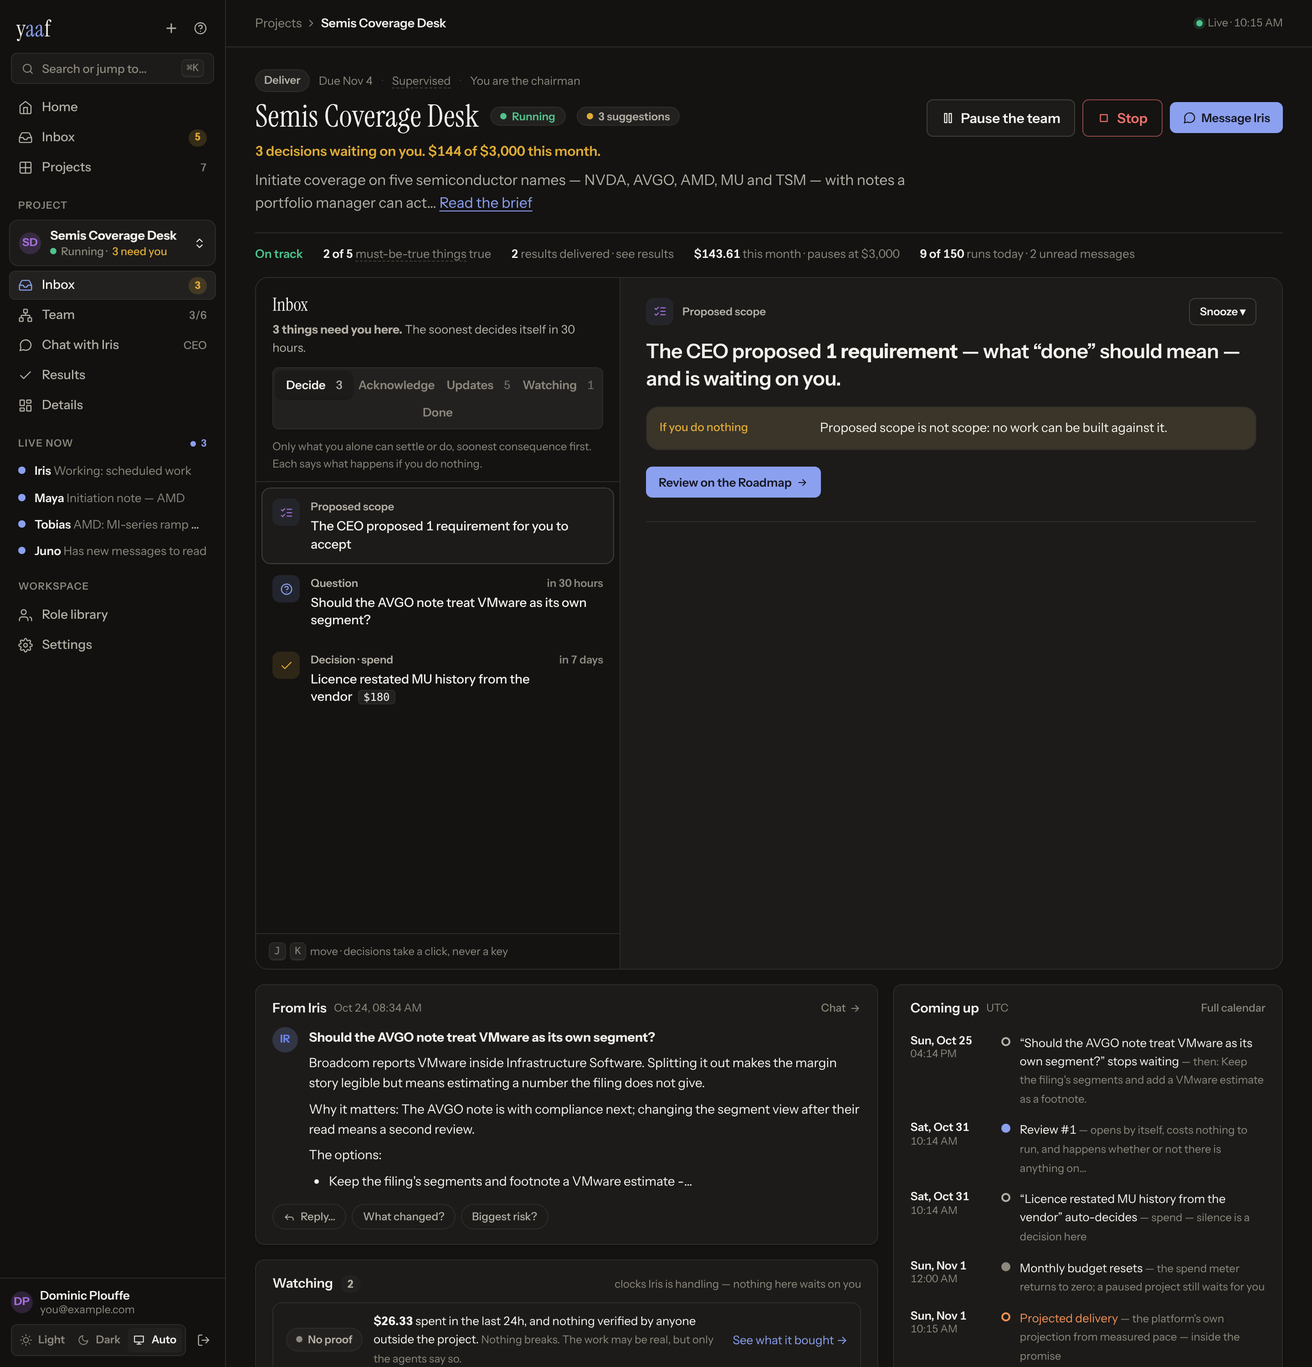
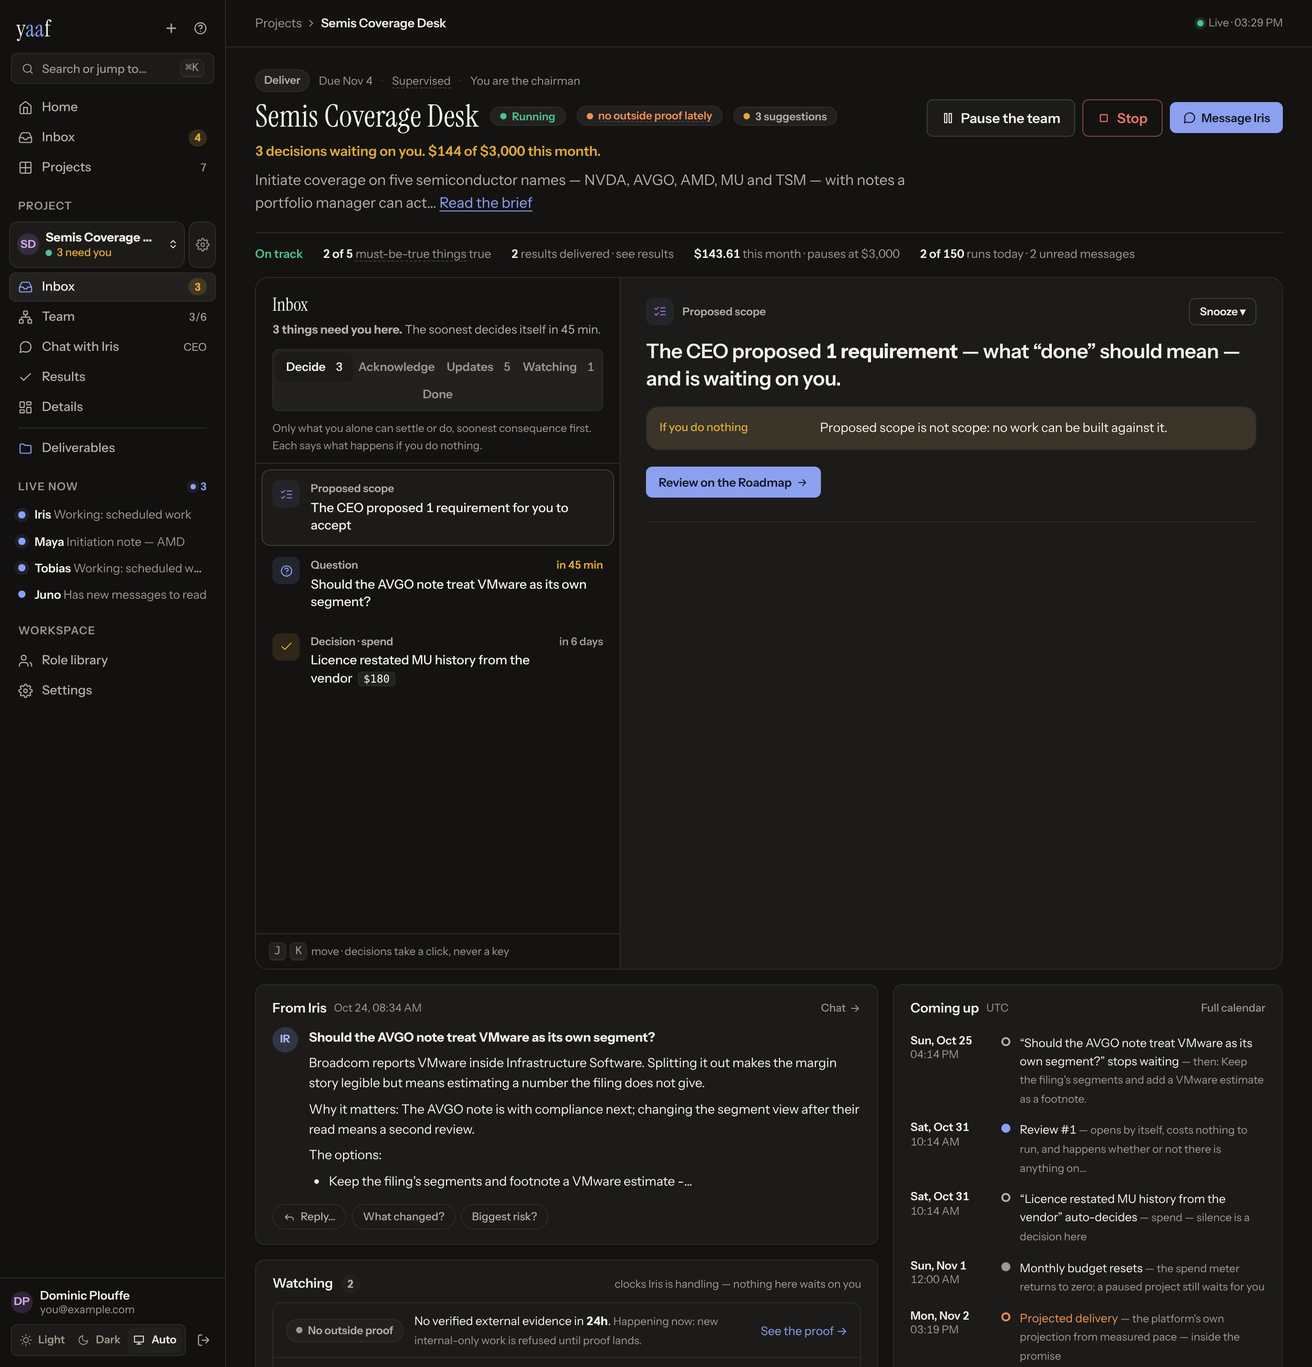
Sync from yaaf at #74: pins, the setup checklist and one CEO record
Brings in yaaf through #72 and #74: ten screenshots (the new
project-setup shot, and the rest redrawn with the pinned sidebar), the
dashboard, MCP and feature docs for pins and the setup checklist, and
2,309 tests.

Claude-Session: https://claude.ai/code/session_013fsCrr24CrMjFRXMTvYDcT

diff --git a/src/content/docs/dashboard.md b/src/content/docs/dashboard.md
@@ -8,7 +8,7 @@ The chairman's cockpit is a React SPA served by the API at **`/app`**. Sign in
 with your email and password; the first admin's comes from the one-time link
 the install prints, and everybody else's from an invite (see
 [AUTH.md](/docs/auth/)). The browser holds a session cookie it cannot read from
-script, and nothing is kept in `localStorage`.
+script, and no credential is kept in `localStorage`.
 
 Two places are about people rather than projects. **Settings → Account** is
 yours: your password, the personal tokens the CLI and your scripts hold, and the
@@ -34,7 +34,28 @@ always shows the same four things in the same order:
 | **Home** | The landing page: one sentence on whether anything needs you, the decisions themselves, every project side by side, and what happened while you were away. |
 | **Inbox** | Everything that needs you, across every project — and everything worth knowing that doesn't. The badge counts only the first. |
 | **Projects** | Your portfolio — one comparable row per project. |
-| **The project you are in** | A switcher (status, and how many things on it need you), then that project's five pages: Inbox, Team, Chat, Results, Details. |
+| **The project you are in** | A switcher (status, and how many things on it need you) with a **gear** beside it for the project's Settings, then that project's five pages: Inbox, Team, Chat, Results, Details — and under them your pins. |
+
+**Pins.** The pages under the five — Deliverables, Runs, a Settings section,
+even one file — are a level down, which is the right depth for a page you open
+once a month and the wrong one for a page you open every morning. So every one
+of them has a **Pin to sidebar** button, and a pinned page sits under the
+project's five pages, one click from anywhere. **Deliverables** comes pinned;
+unpin it with the **×** that appears on hover. You keep up to five, in the
+order you pinned them, and they are yours: they follow you to any browser you
+sign in on, and nobody else's sidebar changes. A pinned page is pinned in every
+project; a pinned file only in its own. After you open the same page three
+times in a week, the app offers once to pin it.
+
+**Details remembers where you were.** Details opens on the tab you used last
+(its name is beside it in the sidebar), so a reader who lives in Runs does not
+pass through the Roadmap to get back to them.
+
+**Setting a project up.** While a new project still needs things — a model key,
+data sources, the credentials its agents asked for, a Slack room, the people
+who can open it — the sidebar carries one more row, **Finish setup 2 of 6**,
+that opens the next one. It goes away when the last step is done or skipped.
+See [the checklist](#finishing-setup) on the project's Inbox.
 
 Under the project's pages a **Live now** list names who is working, who is
 waiting and who wakes next; click a name to open that agent. The **Role
@@ -47,17 +68,23 @@ phone the sidebar folds into a drawer behind the menu button.
 **Search and shortcuts.** **⌘K** (or **Ctrl+K**, or **/** on any page without
 a search box of its own) opens a palette
 that finds any page, project or person and runs the few app-wide actions
-(theme, shortcuts, sign out). **?** lists every shortcut. **g** then a letter
+(theme, shortcuts, sign out). Inside a project it goes one level further than
+the sidebar: the places you were in last, your pins, every Settings section and
+Activity view by name, the setup chores by what you want done (**Add a secret
+or variable**, **Connect a data source**, **Set the budget**, **Invite someone
+to this project**), and any deliverable by its name. **?** lists every shortcut. **g** then a letter
 goes to a page of the project you are in — **g o** its Inbox, **g t** Team, **g c** Chat,
 **g r** Results, **g d** Details, and straight to a Details tab with **g m**
 Roadmap, **g k** Tasks, **g f** Deliverables, **g s** Spend, **g v** Reviews,
-**g a** Activity — and **g i** to the Inbox. No single
+**g a** Activity, **g ,** the project's Settings, and **g 1** to **g 5** your
+pins in sidebar order — and **g i** to the Inbox. No single
 keypress ever decides anything: approving, denying and answering are always a
 click on a labelled button.
 
 Old links keep working. `#/desk` opens the Inbox, a project's `boardroom`
 opens Chat, `progress` opens Roadmap, `progress/board` opens Tasks, and
-`records/*` opens the matching Activity view — so a link in an old email or a
+`records/*` opens the matching Activity view, and `details/settings` opens the
+project's Settings — so a link in an old email or a
 bookmark still lands somewhere true.
 
 ---
@@ -406,7 +433,11 @@ A project has five pages, each answering one question:
 | **Team** | Who is doing my job, who do they report to, and what is each of them on? |
 | **Chat** | Talk to the CEO who runs them. |
 | **Results** | What has the team delivered, and who checked it? |
-| **Details** | How it works inside — Roadmap, Tasks, Deliverables, Spend, Reviews, Activity, Settings, as tabs. Nothing there needs you. |
+| **Details** | How it works inside — Roadmap, Tasks, Deliverables, Spend, Reviews, Activity, as tabs. Nothing there needs you. |
+
+The project's **Settings** are not a page of their own in the list: they open
+from the gear beside the project's name, because they are what the project is
+configured to be rather than how its work is going.
 
 The sidebar carries the count of decisions waiting on you beside Inbox (the
 same count as the Inbox above it, for this project), how many people are busy
@@ -416,9 +447,9 @@ obvious, a project paused or stopped and why, and a review that is open and
 waiting on you.
 
 Every old address still works: `/overview` opens the project's Inbox, `/team`
-the Team page, and `/roadmap`, `/tasks`, `/deliverables`, `/spend`, `/reviews`,
-`/activity/…` and `/settings` the matching Details tab, with their filters
-intact.
+the Team page, `/roadmap`, `/tasks`, `/deliverables`, `/spend`, `/reviews` and
+`/activity/…` the matching Details tab, and `/details/settings` the project's
+Settings, with their filters intact.
 
 **Explore projects have no Roadmap tab.** They have no requirements by
 design — their shape is bets and evidence — and a tab that only ever explains
@@ -438,6 +469,22 @@ must-be-true things are true (or bets in play, on an Explore project), how many
 results have been delivered, what this month has cost against the cap, and
 runs today. When the projection lands past the promised date, a banner says
 so in days, with your two levers: cut scope, or move the date.
+
+### Finishing setup
+
+<img src="/screenshots/project-setup.webp" alt="A project's Inbox with the Finish setting up card open: the model key ticked, then Brief, Data sources, Secrets & variables, Integrations and People each with Open and Skip, and in the sidebar the gear beside the project's name, a Finish setup row counting 1 of 6, and Deliverables pinned under the five pages">
+
+A new project's Inbox opens with **Finish setting up**: one line per thing a
+project needs in its first days — **Model key**, **Brief**, **Data sources**,
+**Secrets & variables**, **Integrations**, **People** — each saying what the
+project already has or what is missing, and each opening the exact Settings
+section. A step ticks itself off when the project has the thing: nobody ticks
+it, so it can never say a key is connected after the key was removed. Every
+step but the model key can be **skipped** (and brought back with **Undo**);
+the key cannot, because no agent can run without it. **Done for now** puts the
+whole list away for everyone on the project. Skipping and putting away are for
+the chairman and co-chairs; an observer sees the list but cannot change it.
+Projects that were already running when the checklist shipped never show it.
 
 **The Inbox** is the same Inbox as the one in the sidebar, for this project
 only — the same rows, the same tabs (Decide, Acknowledge, Updates, Watching,
@@ -577,7 +624,9 @@ the full file explorer.
 ## Details — how it works inside
 
 One page with a tab per subject, so the sidebar can say what the project is.
-Nothing on it needs you — anything that does is on Team and in the Inbox.
+Nothing on it needs you — anything that does is on Team and in the Inbox. Each
+tab, and each Activity view, has **Pin to sidebar** in the top corner for the
+one you open every day, and Details reopens on the tab you used last.
 
 ## Roadmap — scope, sequence, and the promise
 
@@ -750,6 +799,12 @@ from the Roadmap or Settings, and the dial that granted it is one amendment from
 being turned back. Under the Supervised dial the list stays empty by design.
 
 ## Settings
+
+Opened from the **gear** beside the project's name in the sidebar (or **g ,**).
+Each section has its own address, so a link to Secrets & variables lands there,
+and each can be pinned. While the project is being set up, every setup step
+sits in a strip across the top, done ones ticked, so going from one to the next
+is one click; the step you are on can be skipped from the same strip.
 
 Grouped by necessity, not by subsystem. The required path is Brief → Money →
 Data; everything after is occasional.

diff --git a/src/content/docs/agent-api.md b/src/content/docs/agent-api.md
@@ -25,7 +25,7 @@ the refusal text is part of the design, not an error string.
 | Endpoint | Returns |
 |---|---|
 | `GET /whoami` | Who this agent is: role, team, whether it leads. |
-| `GET /context` | The context pack: the constitution in prose, the roster, unread messages, memory usage, chairman state, and the current task. |
+| `GET /context` | The context pack: the constitution in prose, the roster, unread messages, memory usage, chairman state, and the current task. A work run consumes the notices, unread messages and suggestions it is shown; the chat session is shown them and consumes nothing, and is shown every section but those `contextpack.CHAT_OMITS` names. The CEO's pack carries `you_said_lately`: its own recent lines from any lane. |
 | `GET /board` | The task board this agent can see. |
 | `GET /channels` | The channels it may read and post in. |
 | `GET /activity` | Who spent the runs, and on what. |
@@ -274,7 +274,7 @@ is responsible, because every task carries a start time the CEO chose).
 | `POST /capacity` | `rule`, `to`, `buys`, `costs`, `without` | **CEO only.** A case for MORE of a capacity dial — runs a day or an hour, concurrency, queue depth, the month's money. All three of buys/costs/without are required, because the difference between this and a remark in the boardroom is that this carries the numbers to decide on. Filing it does **not** move the dial and does **not** block: keep working at the cap you have and treat a yes as upside. His yes raises the dial at once (to his number if he changed it), through the ordinary amendment path, and you are told the number in force. Restricted to the rules that govern *how much work the project may do* — the mirror of `directive_file`, which is restricted to rules that limit what you ask of him. Authority, the quality bar, verdict policy and the audit rates are refused: arguing for a lower bar on yourself is not a capacity request. `max_concurrent_runs` is granted differently from the rest and says so — it protects a provider rate limit every project on the box shares. |
 | `POST /brief` | `goal`, `standing_orders`, `retired`?, `what_changed` | **CEO only.** Write the chairman's current direction back to him for his Confirm: the whole goal as it stands now, every standing order with its number, and what no longer applies, quoting what he said. Nothing changes until he confirms. Confirming replaces the goal and the standing orders every agent reads first on every run, restarts the chat session onto them, and tells you to rewrite the files, scripts and memories that still say the old thing. A newer draft replaces an unconfirmed one; the brief already in force is 409. `POST /approvals` refuses `kind=brief`. |
 | `POST /heads_up` | `title`, `body`, `standing_order` | **CEO only.** Tell the chairman something he *asked* to be told, for him to mark Noted — no Approve, no Deny, no expiry. `standing_order` quotes the order in the brief that asks for it (enough of it to name one order); without one it is refused, because then it is information and belongs in the deliverable or the daily brief. If he must decide, file an approval; if he must do something, an assist. |
-| `POST /notes/{id}/answer` | `reply`, `standing` | **CEO only.** Answer a note the chairman wrote on a decision. Every unanswered note is in the context pack's `chairman_notes` on every run until answered. `reply` is the one line he reads under his note. `standing=true` says it applies beyond that one item, and is refused unless a brief written after the note exists — fold it in with `POST /brief` first. |
+| `POST /notes/{id}/answer` | `reply`, `standing` | **CEO only.** Answer a note the chairman wrote on a decision. Every unanswered note is in the context pack's `chairman_notes` on every run until answered, with the `boardroom_message_id` of the line it also became in the boardroom. He gets one answer: if the CEO already answered him there (`you_answered_in_the_boardroom`), those words are the reply under his note and `reply` adds nothing; otherwise `reply` is said in the boardroom as the CEO's line. From the chat session nothing is posted — its turn's reply is the answer. `reply` is the one line he reads under his note. `standing=true` says it applies beyond that one item, and is refused unless a brief written after the note exists — fold it in with `POST /brief` first. |
 | `POST /ledger/spend` | `usd`, `note`, `approval_id?` | Spends at or above the threshold **require a granted approval id**, or the booking is refused. Money already spent is always *recorded* — an overshoot books with an audit row and a note to the chairman rather than vanishing. |
 | `POST /purchases` | `usd`, `what`, `idempotency_key` | Clears the real-world spend envelope **before** money moves, and reserves the headroom so two overlapping purchases cannot spend it twice. |
 | `POST /purchases/{id}/finish` | `ok`, `receipt?` | Books the ledger row. Finishing twice never double-books. |

diff --git a/src/content/docs/features.md b/src/content/docs/features.md
@@ -518,6 +518,23 @@ evidence at all about your *project*.
   the rest (`{slug}-leadership`, one room per team) when you want them, so a new
   project does not cost your workspace six channels nobody has spoken in. The
   bot token still never enters a sandbox, shared or not.
+- **One record, every lane.** Anything you write to the project on a decision
+  — a note on an approval, an assist, a credential you fill in, a heads-up or a
+  flag; your reason for cutting, adding, rewording or re-staging scope; a note
+  on an audit, a review, a commitment, an overrun or a measurement window; why
+  you paused, stood down a team or extended a bet — is also your line in the
+  boardroom (`Re: “…” — what you wrote`), the same way an answer to one of the
+  CEO's questions is. The CEO you chat with answers it there, whichever of its
+  runs is awake and however recently its chat session restarted, because the
+  boardroom is the record every one of them reads. You get **one answer**: the
+  CEO's reply in the chat is also what shows under your note in the Inbox. A
+  note on a decision never counts as an answer to the CEO's own open
+  questions, and a decision with no note says nothing. Every route that takes
+  your words is named in one list (`chairman_notes.DOORS`), and the suite
+  fails on a new one that is not. The chat session is
+  shown everything a work run of the CEO is shown — bar a short list the
+  platform names with a reason — consumes none of it, and every lane sees what
+  the CEO itself last said, so one run does not undo the last one's order.
 - **Directives.** A rule you state in chat becomes a rule the platform holds:
   the CEO files it as a directive citing your actual message, and the platform
   enforces it from the next call. Scope is limited to your reporting
@@ -544,12 +561,21 @@ evidence at all about your *project*.
   browser receives the folder headers and only the rows it is showing. A
   stale index is served at once and refreshed behind the request, with its
   age in the footer, so a slow disk never stalls the tab.
+- **One click from anywhere.** Deliverables comes pinned under the project in
+  the sidebar, and **Pin to sidebar** on the file reader puts a single file
+  there too; ⌘K finds any deliverable by its name.
 - **The listing says what it dropped.** Past the per-project cap (50,000
   working files) the newest are kept, not the alphabetically first, and the
   screen says how many are not shown.
 
 ## 16. Setup that can't silently fail
 
+- **A setup checklist that ticks itself.** A new project's Inbox lists what it
+  still needs — model key, brief, data sources, the credentials its agents
+  asked for, integrations, people — each one click from the exact Settings
+  section, each ticked off by the project's own state rather than by anyone
+  pressing a box. The model key cannot be skipped; the rest can. While any step
+  is left, one sidebar row opens the next one; when none is, both go away.
 - **Health checklist** on each project's Inbox names anything misconfigured
   — dead billing, a credential that isn't a URL, an untested data source, a
   team running an outdated role version — in plain language, with a fix link. A

diff --git a/src/content/docs/creating-a-project.md b/src/content/docs/creating-a-project.md
@@ -301,7 +301,10 @@ needs a credential — without one the project is created stopped.)
 
 ## Step 2 — Connect billing (if you skipped it at creation)
 
-Open your new project → **Settings** → "How agents pay for Claude". Pick a
+Open your new project. Its Inbox starts with **Finish setting up**, a list of
+what the project still needs, and **Model key** is first: it opens Settings →
+**Money** (the gear beside the project's name in the sidebar gets you there
+too). Pick a
 credential from the list, click **Save assignment**, then **Test connection**
 — if the key is bad, you find out now, not at 9am tomorrow. No credentials in
 the list? An administrator adds one under Settings → Providers; a
@@ -310,7 +313,10 @@ plan.
 
 ## Step 3 — Connect the data (if the work needs it)
 
-Settings → **Data sources — MCP servers**. A data source *is* an MCP server:
+The **Data sources** step on the checklist, or Settings → **Data sources** —
+the sidebar's **Finish setup** row opens whichever step is next, and every step
+sits in a strip across the top of Settings while any is left. A data source
+*is* an MCP server:
 a URL that offers tools. This is one form:
 
 - **Name**: a short label, like `ppc`. Agents will see the source's tools
@@ -373,8 +379,10 @@ reveals as its own text and can be edited in place to rotate.
 
 ## Step 4 — Follow the checklist
 
-Go to the project's **Team** page. If anything about the setup is wrong or
-missing, a **Setup & health** card sits at the top naming each problem in
+Go to the project's **Inbox**. **Finish setting up** lists what the project
+does not have yet — each step ticks itself off when it does, and every step but
+the model key can be skipped; **Done for now** puts the list away. If anything
+about the setup is wrong, a **Setup & health** card further down names each problem in
 plain English with a link to fix it — a dead or missing billing credential, a credential that
 should be a URL but isn't, a team running an outdated role version. Fix the
 red **problem** rows; amber **suggestion** rows are advice you can act on or
@@ -464,10 +472,12 @@ project pauses itself rather than burning money against a wall.
 1. New project → goal above → **Deliver** → credential picked → three one-person
    teams (researcher, engineer, writer) → `ppc` data source + engineer role →
    budget cap → Create.
-2. (Or later: Settings → billing → pick a credential → Save assignment → Test.)
-3. (Or later: Settings → Data sources → `ppc` + the MCP URL + engineer
+2. (Or later: Finish setting up → Model key → pick a credential → Save
+   assignment → Test.)
+3. (Or later: Finish setting up → Data sources → `ppc` + the MCP URL + engineer
    role → Save, auto-tested.)
-4. The project's Inbox → fix anything the health card names → card disappears.
+4. The project's Inbox → finish or skip the rest of the checklist, and fix
+   anything the health card names → both disappear.
 5. Chat → brief the CEO.
 6. Roadmap → accept the requirements you want, cut the rest, sign the date.
 7. Done. Check back in the morning.

diff --git a/src/content/docs/mcp-server.md b/src/content/docs/mcp-server.md
@@ -367,7 +367,7 @@ Status column tracks implementation. `M1`…`M4` are the milestones below.
 | `whoami` | What this client may do: the chairman it acts for, its scopes, the projects it reaches. | — (the principal describing itself) | **done** (M0) |
 | `desk` | Cross-project standing: what needs you, everywhere. Leads with `summary`, one platform-written paragraph naming every project that is not fine (written before any trim, so none is cut) — and, under `also_yours`, the flags, heads-ups and open reviews the desk rows do not carry, so "what needs me?" is one call. | `GET /observe/desk` | **done** (M1) |
 | `projects` | List the projects this client can see: status, shape, goal preview. | `GET /observe/projects` | **done** (M0) |
-| `project` | One project's cockpit. `view`: `overview` \| `health` \| `flags` \| `heads_ups` \| `agenda` \| `briefing`. The briefing takes `hours` or `since` for "what changed since yesterday?"; without them it is since you last looked. `overview` leads with `summary`, the project's status sentence. | `GET /observe/projects/{id}` + `/health` `/flags` `/agenda` `/briefing` | **done** (M1) |
+| `project` | One project's cockpit. `view`: `overview` \| `health` \| `setup` \| `flags` \| `heads_ups` \| `agenda` \| `briefing`. `setup` is a new project's checklist: each step, whether the project already has it, and which were skipped. The briefing takes `hours` or `since` for "what changed since yesterday?"; without them it is since you last looked. `overview` leads with `summary`, the project's status sentence. | `GET /observe/projects/{id}` + `/health` `/setup` `/flags` `/agenda` `/briefing` | **done** (M1) |
 | `plan` | Requirements by stage, dependencies, burn-up, the commitment and its risk. | `GET /observe/projects/{id}/plan`, `GET /admin/projects/{id}/requirements` | **done** (M1) |
 | `spend` | Against the cap, by team; ledger lines. | `GET /observe/projects/{id}/spend` `/ledger` | **done** (M1) |
 | `work` | Runs, one run's trace, the context pack it ran on. Long text walks by `offset`. | `GET /observe/projects/{id}/runs`, `/runs/{id}/trace` `/context` | **done** (M1) |
